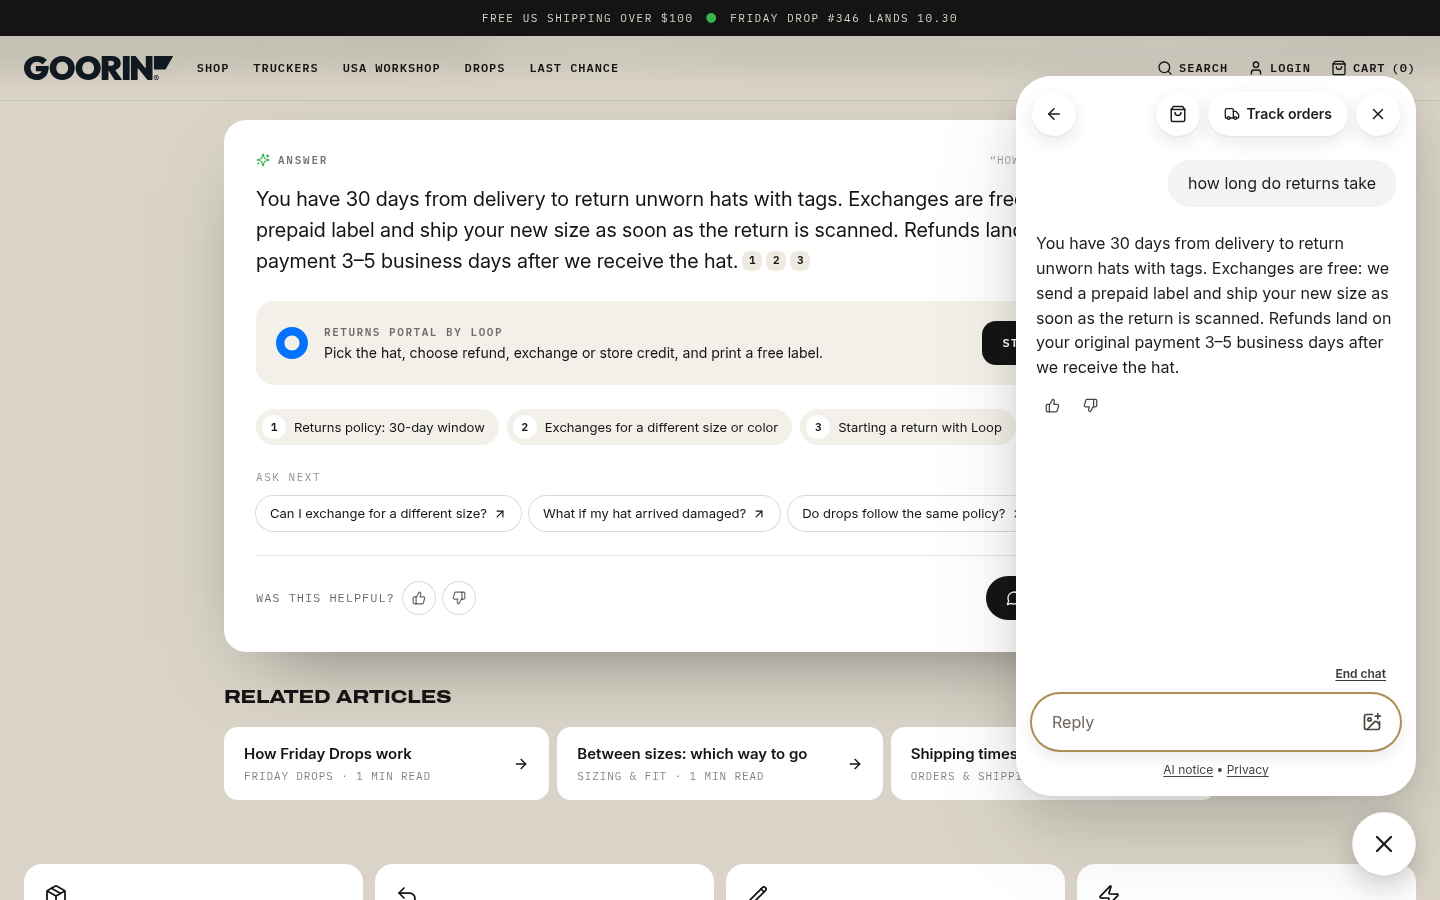
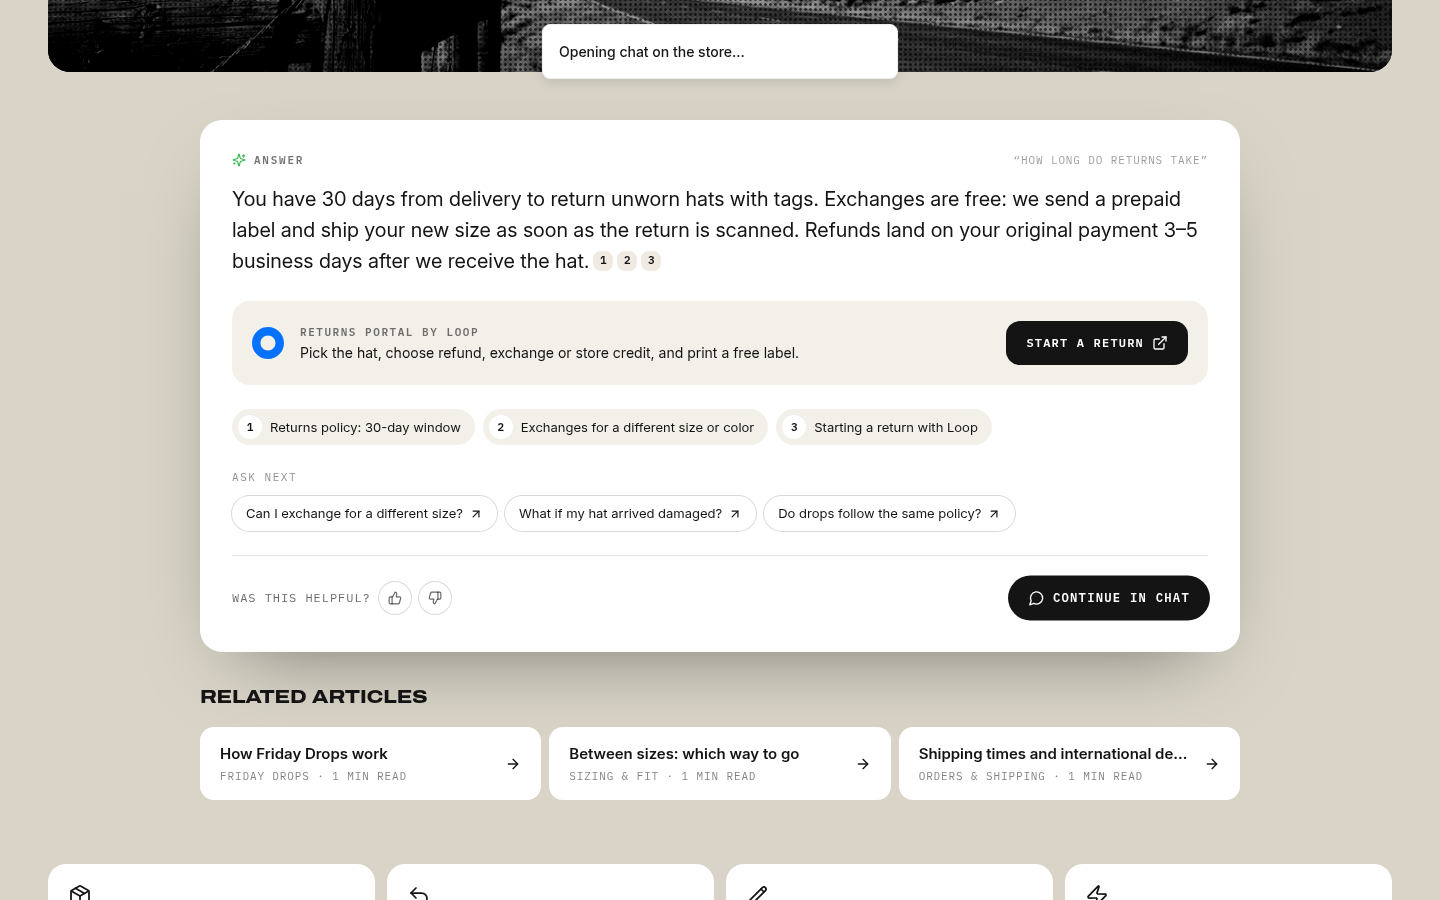
## Help Center ready to embed
The Help Center at https://goorin-inbox.preview.emergentagent.com/help is now a clean block to drop into your store page. I checked it from the builder's screenshots, with no separate test run.

- **Removed:** the store header, black announcement bar, dark footer and giant wordmark.
- **Embed-friendly:** the page is only as tall as its content, the bone background stays inside the Help Center, and nothing sticks to the top of the window. Topic and article pages have a small "‹ Help center" back link.
- **Friday Drops:** the "This Friday" banner, countdown and Join the Club are gone. Friday Drops stays as a help topic, a quick button and a question you can ask, and its answer no longer names a specific drop.
- **Chat:** the Help Center has no chat button of its own, since your store already has one. "Open chat" and "Continue in chat" send a signal for your store's chat to open with the question and answer.
- **Still unconfirmed:** here they only show an "Opening chat on the store…" message, because there's no store page around the Help Center in this preview. I haven't seen your store's chat actually open from them.
- **Unchanged:** the headline, the photo banner with AI search, answers with actions such as tracking, size and returns, the quick buttons, the help library and the "Let's talk it through" card.

**MOCKED:** the AI answers are pre-written, and order tracking uses demo orders.

- Next Action Items:
[…]

diff --git a/frontend/src/pages/HelpHomePage.tsx b/frontend/src/pages/HelpHomePage.tsx
@@ -1,10 +1,10 @@
-import { useEffect, useRef, useState } from 'react'
+import { useRef, useState } from 'react'
 import { Link } from 'react-router-dom'
 import { ArrowRight, BadgeCheck, CreditCard, Handshake, MessageCircle, Package, PencilLine, Ruler, ShieldCheck, Sparkles, Store, Truck, Undo2, Zap, type LucideIcon } from 'lucide-react'
 import { helpApi } from '@/api'
-import { NEXT_DROP, type HelpAnswer, type HelpTopic } from '@/api/help'
+import type { HelpAnswer, HelpTopic } from '@/api/help'
 import { useApi } from '@/hooks/useApi'
-import { HelpShell, openChat } from '@/components/help/HelpChrome'
+import { HelpShell, openChat } from '@/components/help/HelpShell'
 import { HelpSearch } from '@/components/help/HelpSearch'
 import { AnswerCard } from '@/components/help/AnswerCard'
 import { Skeleton } from '@/components/ui/skeleton'
@@ -31,18 +31,6 @@ export function Thinking() {
   return <div className="rounded-[22px] bg-white p-8 max-sm:p-5" data-testid="help-thinking"><p className="hc-mono flex items-center gap-2 text-[11px] uppercase tracking-[0.16em] text-black/50"><Sparkles className="h-3.5 w-3.5 animate-pulse text-[#35B54A]" aria-hidden />Reading the help library…</p><Skeleton className="mt-5 h-5 w-11/12" /><Skeleton className="mt-3 h-5 w-3/4" /></div>
 }
 
-function Countdown() {
-  const [now, setNow] = useState(() => Date.now())
-  useEffect(() => { const id = setInterval(() => setNow(Date.now()), 1000); return () => clearInterval(id) }, [])
-  const left = Math.max(0, new Date(NEXT_DROP.at).getTime() - now)
-  const parts: [string, number][] = [['Days', Math.floor(left / 864e5)], ['Hrs', Math.floor(left / 36e5) % 24], ['Min', Math.floor(left / 6e4) % 60], ['Sec', Math.floor(left / 1e3) % 60]]
-  return (
-    <div className="flex gap-2" role="timer" aria-label="Time until the next drop" data-testid="drop-countdown">
-      {parts.map(([l, v]) => <div key={l} className="w-[76px] rounded-xl bg-[#141414] py-3 text-center text-[#D9D4C7] max-sm:w-[64px]"><p className="hc-display text-[30px] leading-none tabular-nums max-sm:text-[24px]">{String(v).padStart(2, '0')}</p><p className="hc-mono mt-1.5 text-[10px] uppercase tracking-[0.14em] text-[#D9D4C7]/60">{l}</p></div>)}
-    </div>
-  )
-}
-
 export function ChatCard() {
   return (
     <aside className="relative flex flex-col overflow-hidden rounded-[22px] bg-[#141414] p-8 text-[#D9D4C7] max-sm:p-6" data-testid="help-chat-card">
@@ -67,11 +55,11 @@ export default function HelpHomePage() {
   const total = topics?.reduce((n, t) => n + t.count, 0) ?? 0
   return (
     <HelpShell>
-      <section className="mx-auto max-w-[1440px] px-6 pb-8 pt-14 max-sm:px-4 max-sm:pt-8">
+      <section className="mx-auto max-w-[1440px] pb-8 pt-4 max-sm:pt-0">
         <p className="hc-mono text-[12px] uppercase tracking-[0.2em] text-black/60" data-testid="help-eyebrow">Goorin customer support</p>
         <h1 className="hc-display mt-3 text-[clamp(40px,7.3vw,112px)] leading-[0.86]" data-testid="help-title">Customer support</h1>
       </section>
-      <section className="hc-halftone relative mx-auto flex min-h-[540px] max-w-[1440px] items-center justify-center px-6 py-20 max-sm:min-h-0 max-sm:px-4 max-sm:py-12" data-testid="help-hero">
+      <section className="hc-halftone relative mx-auto flex min-h-[540px] max-w-[1440px] items-center justify-center rounded-[22px] px-6 py-20 max-sm:min-h-0 max-sm:rounded-2xl max-sm:px-4 max-sm:py-12" data-testid="help-hero">
         <img src="/images/help/hero-desert.jpg" alt="" className="absolute inset-0 h-full w-full object-cover" />
         <div className="relative z-10 w-full max-w-[760px] text-center">
           <h2 className="hc-mono text-[clamp(22px,3.2vw,40px)] font-medium uppercase tracking-[0.04em] text-white [text-shadow:0_2px_24px_rgb(0_0_0/.5)]" data-testid="help-hero-title">Hi, how can we help?</h2>
@@ -81,10 +69,10 @@ export default function HelpHomePage() {
           </div>
         </div>
       </section>
-      <div ref={ref} className="scroll-mt-28">
-        {(busy || answer) && <section className="mx-auto max-w-[1040px] px-6 pt-12 max-sm:px-4">{busy ? <Thinking /> : answer && <AnswerCard key={answer.q} a={answer} onAsk={ask} />}</section>}
+      <div ref={ref} className="scroll-mt-6">
+        {(busy || answer) && <section className="mx-auto max-w-[1040px] pt-12">{busy ? <Thinking /> : answer && <AnswerCard key={answer.q} a={answer} onAsk={ask} />}</section>}
       </div>
-      <section className="mx-auto max-w-[1440px] px-6 pt-16 max-sm:px-4" data-testid="help-tiles">
+      <section className="mx-auto max-w-[1440px] pt-16" data-testid="help-tiles">
         <div className="grid grid-cols-4 gap-3 max-lg:grid-cols-2 max-sm:grid-cols-1">
           {TILES.map(([label, q, I], i) => (
             <button key={label} type="button" onClick={() => ask(q)} className="hc-rise group flex min-h-[132px] flex-col justify-between rounded-2xl bg-white p-5 text-left transition-[transform,box-shadow] hover:-translate-y-1 hover:shadow-[0_22px_40px_-24px_rgb(0_0_0/.55)] max-sm:min-h-0 max-sm:flex-row max-sm:items-center max-sm:gap-4" style={{ animationDelay: `${i * 50}ms` }} data-testid={`help-tile-${i}`}>
@@ -98,7 +86,7 @@ export default function HelpHomePage() {
           </button>
         </div>
       </section>
-      <section className="mx-auto max-w-[1440px] px-6 pt-24 max-sm:px-4 max-sm:pt-16" data-testid="help-library">
+      <section className="mx-auto max-w-[1440px] pt-24 max-sm:pt-16" data-testid="help-library">
         <div className="flex flex-wrap items-end justify-between gap-3">
           <h2 className="hc-display text-[clamp(28px,4vw,52px)] leading-[0.9]">Explore the help library</h2>
           <p className="hc-mono text-[12px] uppercase tracking-[0.12em] text-black/55">{topics ? `${topics.length} topics · ${total} articles` : ''}</p>
@@ -115,21 +103,6 @@ export default function HelpHomePage() {
             ) })}
           </div>
           <ChatCard />
-        </div>
-      </section>
-      <section className="mx-auto max-w-[1440px] px-6 py-24 max-sm:px-4 max-sm:py-16" data-testid="help-drop">
-        <div className="grid overflow-hidden rounded-[22px] bg-[#EFEBE2] md:grid-cols-[minmax(0,5fr)_minmax(0,7fr)]">
-          <div className="relative min-h-[320px] max-md:min-h-[260px]"><img src={NEXT_DROP.image} alt={`Drop #${NEXT_DROP.number}: ${NEXT_DROP.name} trucker`} className="absolute inset-0 h-full w-full object-cover" /><span className="hc-mono absolute left-4 top-4 rounded-full bg-[#35B54A] px-3 py-1 text-[11px] font-bold uppercase tracking-[0.1em]">Banger!</span></div>
-          <div className="flex flex-col justify-center gap-6 p-10 max-sm:p-6">
-            <p className="hc-mono text-[12px] uppercase tracking-[0.2em] text-black/60">This Friday</p>
-            <h2 className="hc-display text-[clamp(30px,4.4vw,64px)] leading-[0.9]" data-testid="drop-title">#{NEXT_DROP.number} · {NEXT_DROP.name}</h2>
-            <p className="hc-mono text-[14px] tracking-[0.08em]">{NEXT_DROP.date} · 9AM PT</p>
-            <Countdown />
-            <div className="flex flex-wrap items-center gap-5">
-              <button type="button" onClick={() => ask('How do I join the Club?')} className="hc-mono inline-flex h-12 items-center gap-2 rounded-full bg-[#141414] px-6 text-[13px] font-semibold uppercase tracking-[0.1em] text-white transition-transform hover:scale-[1.02]" data-testid="drop-join">Join the Club<ArrowRight className="h-4 w-4" aria-hidden /></button>
-              <Link to="/help/topic/friday-drops" className="hc-mono text-[12px] uppercase tracking-[0.1em] underline underline-offset-4 hover:text-black/60" data-testid="drop-faq">Friday Drops FAQ</Link>
-            </div>
-          </div>
         </div>
       </section>
     </HelpShell>

diff --git a/frontend/src/pages/HelpArticlePage.tsx b/frontend/src/pages/HelpArticlePage.tsx
@@ -6,10 +6,10 @@ import { ArrowRight, Sparkles } from 'lucide-react'
 import { helpApi } from '@/api'
 import type { HelpAnswer } from '@/api/help'
 import { useApi } from '@/hooks/useApi'
-import { HelpShell, openChat } from '@/components/help/HelpChrome'
+import { HelpShell, openChat } from '@/components/help/HelpShell'
 import { ArticleLink, Vote } from '@/components/help/AnswerCard'
 import { Skeleton } from '@/components/ui/skeleton'
-import { Crumbs } from './HelpTopicPage'
+import { BackLink, Crumbs } from './HelpTopicPage'
 
 const slug = (s: string) => s.toLowerCase().replace(/[^a-z0-9]+/g, '-').replace(/^-|-$/g, '')
 
@@ -43,7 +43,8 @@ export default function HelpArticlePage() {
   const toc = a ? [...a.body.matchAll(/^## (.+)$/gm)].map((m) => m[1]) : []
   return (
     <HelpShell>
-      <div className="mx-auto max-w-[1440px] px-6 pb-24 pt-12 max-sm:px-4 max-sm:pt-8" data-testid="help-article-page">
+      <div className="mx-auto max-w-[1440px] pb-8" data-testid="help-article-page">
+        <BackLink />
         <Crumbs items={[['Help center', '/help'], ...(a ? [[a.topic.title, `/help/topic/${a.topic.slug}`] as [string, string]] : []), [a?.title ?? '…']]} />
         {error && <p className="mt-10 text-lg" data-testid="help-article-missing">That article doesn't exist. <Link to="/help" className="underline">Back to the help center</Link></p>}
         {!a && !error && <Skeleton className="mt-8 h-24 w-2/3 rounded-2xl" />}
@@ -53,15 +54,15 @@ export default function HelpArticlePage() {
             <p className="hc-mono mt-5 text-[12px] uppercase tracking-[0.12em] text-black/55" data-testid="help-article-updated">Updated {new Date(a.updatedAt).toLocaleDateString(undefined, { month: 'short', day: 'numeric', year: 'numeric' })} · {a.readMins} min read</p>
             <div className="mt-12 grid gap-10 lg:grid-cols-[200px_minmax(0,1fr)_320px]">
               <nav aria-label="On this page" className="max-lg:hidden" data-testid="help-article-toc">
-                {toc.length > 0 && <div className="sticky top-32"><p className="hc-mono text-[11px] uppercase tracking-[0.14em] text-black/50">On this page</p><ul className="mt-3 space-y-2 border-l border-black/15">{toc.map((h) => <li key={h}><a href={`#${slug(h)}`} className="-ml-px block border-l border-transparent pl-4 text-[14px] text-black/70 transition-colors hover:border-black hover:text-black">{h}</a></li>)}</ul></div>}
+                {toc.length > 0 && <div className="sticky top-6"><p className="hc-mono text-[11px] uppercase tracking-[0.14em] text-black/50">On this page</p><ul className="mt-3 space-y-2 border-l border-black/15">{toc.map((h) => <li key={h}><a href={`#${slug(h)}`} className="-ml-px block border-l border-transparent pl-4 text-[14px] text-black/70 transition-colors hover:border-black hover:text-black">{h}</a></li>)}</ul></div>}
               </nav>
               <div className="min-w-0">
                 <article className="hc-prose rounded-[22px] bg-white p-10 max-sm:p-6" data-testid="help-article-body">
-                  <ReactMarkdown remarkPlugins={[remarkGfm]} components={{ h2: ({ children }) => <h2 id={slug(String(children))} className="scroll-mt-32">{children}</h2> }}>{a.body}</ReactMarkdown>
+                  <ReactMarkdown remarkPlugins={[remarkGfm]} components={{ h2: ({ children }) => <h2 id={slug(String(children))} className="scroll-mt-6">{children}</h2> }}>{a.body}</ReactMarkdown>
                 </article>
                 <div className="mt-6 flex flex-wrap items-center justify-between gap-4 px-2"><Vote testId="article-vote" /><button type="button" onClick={() => openChat()} className="hc-mono text-[12px] uppercase tracking-[0.1em] underline underline-offset-4" data-testid="article-chat">Still stuck? Chat with us</button></div>
               </div>
-              <aside className="space-y-6 lg:sticky lg:top-32 lg:self-start">
+              <aside className="space-y-6 lg:sticky lg:top-6 lg:self-start">
                 <AskArticle id={a.id} title={a.title} />
                 {data.related.length > 0 && (
                   <section data-testid="help-article-related">

diff --git a/frontend/src/mocks/helpCenter.ts b/frontend/src/mocks/helpCenter.ts
@@ -13,8 +13,6 @@ export const HELP_TOPICS: HelpTopic[] = [
   { slug: 'guarantee', title: 'Manufacturer Guarantee', blurb: 'What we cover and how to claim it.', categories: ['Manufacturer Guarantee'], icon: 'shield' },
 ]
 
-export const NEXT_DROP = { number: 346, name: 'Way of the Samurai', date: '10.30.2026', at: '2026-10-30T09:00:00-07:00', image: '/images/help/drop-samurai.jpg' }
-
 type Extra = [id: string, title: string, category: string, ageDays: number, body: string]
 export const HELP_EXTRA: Extra[] = [
   ['hc-01', 'How Friday Drops work', 'Friday Drops', 6, '## The drop\nEvery Friday at **9am PT** we release a small, numbered run of hats. Once a drop sells out, it is gone for good.\n\n## Getting one\nAdd to cart and check out within 10 minutes; carts are held while you pay. Limit two per customer per drop.\n\n## Returns on drops\nDrops can be exchanged for a different size while stock lasts, or returned within 30 days like any other hat.'],
@@ -49,7 +47,7 @@ export type HelpAction = 'track' | 'edit' | 'return' | 'size'
 export interface HelpIntent { id: string; keys: RegExp; questions: string[]; text: string; sources: string[]; followUps: string[]; action?: HelpAction }
 
 export const HELP_INTENTS: HelpIntent[] = [
-  { id: 'drops', keys: /friday|drop|release|restock|club/i, questions: ['When is the next Friday Drop?', 'How do Friday Drops work?'], text: `Every Friday at 9am PT we release a small, numbered run of hats. Drop #${NEXT_DROP.number} · ${NEXT_DROP.name} lands ${NEXT_DROP.date}. Club members get a one-hour head start and a reminder text the night before.`, sources: ['hc-01', 'hc-02'], followUps: ['How do I join the Club?', 'Can I return a drop hat?'] },
+  { id: 'drops', keys: /friday|drop|release|restock|club/i, questions: ['When is the next Friday Drop?', 'How do Friday Drops work?'], text: 'Every Friday at 9am PT we release a small, numbered run of hats, and once a drop sells out it is gone for good. Club members get a one-hour head start and a reminder text the night before.', sources: ['hc-01', 'hc-02'], followUps: ['How do I join the Club?', 'Can I return a drop hat?'] },
   { id: 'return', keys: /return|refund|exchange|send.*back|loop/i, questions: ['How long do returns take?', 'How do I start a return?', 'Can I exchange for a different size?'], text: 'You have 30 days from delivery to return unworn hats with tags. Exchanges are free: we send a prepaid label and ship your new size as soon as the return is scanned. Refunds land on your original payment 3–5 business days after we receive the hat.', sources: ['ga-08', 'ga-09', 'hc-09'], followUps: ['Can I exchange for a different size?', 'What if my hat arrived damaged?', 'Do drops follow the same policy?'], action: 'return' },
   { id: 'edit', keys: /cancel|edit|change.*(order|address)|modify|wrong address/i, questions: ['Can I cancel / edit my order?', 'How do I change my shipping address?'], text: "You can edit or cancel an order until it's packed, usually within 12 hours of ordering. After that we can ask the carrier to redirect it. Look up your order below and I'll check whether it can still be changed.", sources: ['ga-07', 'hc-08'], followUps: ['Where is my order?', 'How do I start a return?'], action: 'edit' },
   { id: 'size', keys: /size|fit|measure|tight|loose|\bcm\b|inch/i, questions: ['What size am I?', 'Between sizes, which way should I go?'], text: "Wrap a soft tape around your head about a finger above your brows and ears. Pop the number in below and I'll match it to our size chart. Between sizes? Go up: every fedora ships with sizing tape.", sources: ['ga-01', 'ga-02', 'ga-03'], followUps: ['Do truckers fit everyone?', 'Can I exchange for a different size?'], action: 'size' },

diff --git a/frontend/src/pages/HelpTopicPage.tsx b/frontend/src/pages/HelpTopicPage.tsx
@@ -1,13 +1,17 @@
 import { Link, useParams } from 'react-router-dom'
-import { ArrowRight, Clock } from 'lucide-react'
+import { ArrowRight, ChevronLeft, Clock } from 'lucide-react'
 import { helpApi } from '@/api'
 import { HELP_TOPICS } from '@/api/help'
 import { useApi } from '@/hooks/useApi'
-import { HelpShell } from '@/components/help/HelpChrome'
+import { HelpShell } from '@/components/help/HelpShell'
 import { HelpSearch } from '@/components/help/HelpSearch'
 import { AnswerCard } from '@/components/help/AnswerCard'
 import { Skeleton } from '@/components/ui/skeleton'
 import { ChatCard, Thinking, TOPIC_ICON, useAsk } from './HelpHomePage'
+
+export function BackLink() {
+  return <Link to="/help" className="hc-mono mb-6 inline-flex items-center gap-1 text-[12px] uppercase tracking-[0.12em] text-black/60 transition-colors hover:text-black" data-testid="help-back"><ChevronLeft className="h-4 w-4" aria-hidden />Help center</Link>
+}
 
 export function Crumbs({ items }: { items: [string, string?][] }) {
   return (
@@ -24,7 +28,8 @@ export default function HelpTopicPage() {
   const I = data ? TOPIC_ICON[data.topic.icon] : null
   return (
     <HelpShell>
-      <div className="mx-auto max-w-[1440px] px-6 pb-24 pt-12 max-sm:px-4 max-sm:pt-8" data-testid="help-topic-page">
+      <div className="mx-auto max-w-[1440px] pb-8" data-testid="help-topic-page">
+        <BackLink />
         <Crumbs items={[['Help center', '/help'], [data?.topic.title ?? '…']]} />
         {error && <p className="mt-10 text-lg" data-testid="help-topic-missing">That topic doesn't exist. <Link to="/help" className="underline">Back to the help center</Link></p>}
         {data && I && (
@@ -40,7 +45,7 @@ export default function HelpTopicPage() {
             <div className="mt-10 max-w-[820px]"><HelpSearch onAsk={ask} topic={slug} compact placeholder={`Ask about ${data.topic.title.toLowerCase()}…`} testId="topic-search" /></div>
           </>
         )}
-        <div ref={ref} className="scroll-mt-28">{(busy || answer) && <div className="mt-8 max-w-[1040px]">{busy ? <Thinking /> : answer && <AnswerCard key={answer.q} a={answer} onAsk={ask} />}</div>}</div>
+        <div ref={ref} className="scroll-mt-6">{(busy || answer) && <div className="mt-8 max-w-[1040px]">{busy ? <Thinking /> : answer && <AnswerCard key={answer.q} a={answer} onAsk={ask} />}</div>}</div>
         <div className="mt-12 grid gap-10 lg:grid-cols-[1fr_340px]">
           <ul className="space-y-2" data-testid="help-topic-articles">
             {!data && !error && Array.from({ length: 4 }, (_, i) => <li key={i}><Skeleton className="h-[92px] rounded-2xl" /></li>)}

diff --git a/frontend/src/components/help/HelpShell.tsx b/frontend/src/components/help/HelpShell.tsx
@@ -1,0 +1,21 @@
+import { useEffect } from 'react'
+import { useLocation } from 'react-router-dom'
+import { toast } from 'sonner'
+
+// Hands off to the host store's widget (embedded: parent frame; same page: window event).
+export const openChat = (question?: string, answer?: string) => {
+  window.parent.postMessage({ type: 'goorin:open-chat', question, answer }, '*')
+  window.dispatchEvent(new CustomEvent('goorin:open-chat', { detail: { q: question, a: answer } }))
+  toast('Opening chat on the store…')
+}
+
+// Embeddable wrapper: no store chrome or widget, height follows content, bone only on this element.
+export function HelpShell({ children }: { children: React.ReactNode }) {
+  const { pathname } = useLocation()
+  useEffect(() => { window.scrollTo(0, 0) }, [pathname])
+  return (
+    <div className="help-root w-full bg-[#D9D4C7] px-6 py-10 text-[#141414] sm:px-8 lg:px-12 max-sm:py-6" data-testid="help-root">
+      {children}
+    </div>
+  )
+}

diff --git a/frontend/src/api/help.ts b/frontend/src/api/help.ts
@@ -4,7 +4,7 @@ import { ApiError, request } from './client'
 import { db } from './db'
 
 export type { HelpAction, HelpTopic }
-export { HELP_TOPICS, NEXT_DROP } from '@/mocks/helpCenter'
+export { HELP_TOPICS } from '@/mocks/helpCenter'
 
 export interface HelpArticle { id: string; title: string; topic: HelpTopic; excerpt: string; body: string; readMins: number; updatedAt: string }
 export interface HelpAnswer { q: string; text: string; confident: boolean; sources: HelpArticle[]; followUps: string[]; action: HelpAction | null; related: HelpArticle[] }

diff --git a/frontend/src/components/help/AnswerCard.tsx b/frontend/src/components/help/AnswerCard.tsx
@@ -3,7 +3,7 @@ import { Link } from 'react-router-dom'
 import { ArrowRight, ArrowUpRight, MessageCircle, Sparkles, ThumbsDown, ThumbsUp } from 'lucide-react'
 import type { HelpAnswer, HelpArticle } from '@/api/help'
 import { OrderLookup, ReturnAction, SizeAction } from './HelpActions'
-import { openChat } from './HelpChrome'
+import { openChat } from './HelpShell'
 import { cn } from '@/lib/utils'
 
 function useTyped(text: string) {
